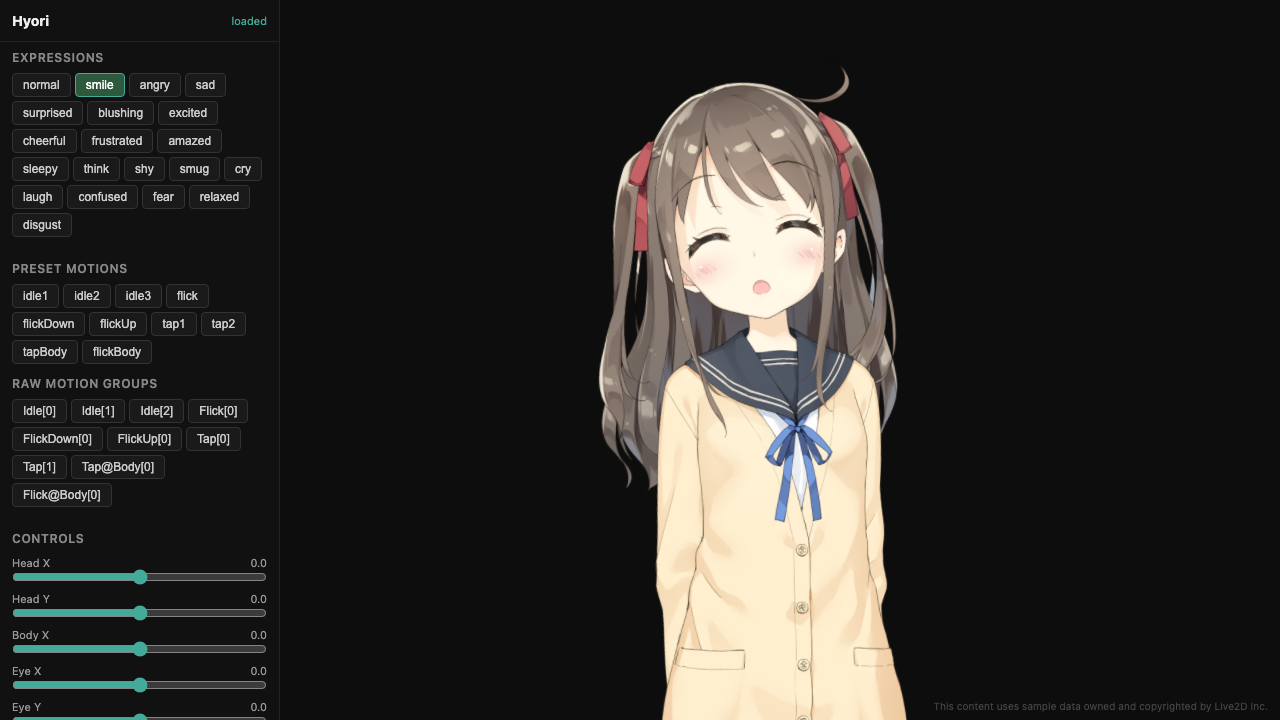
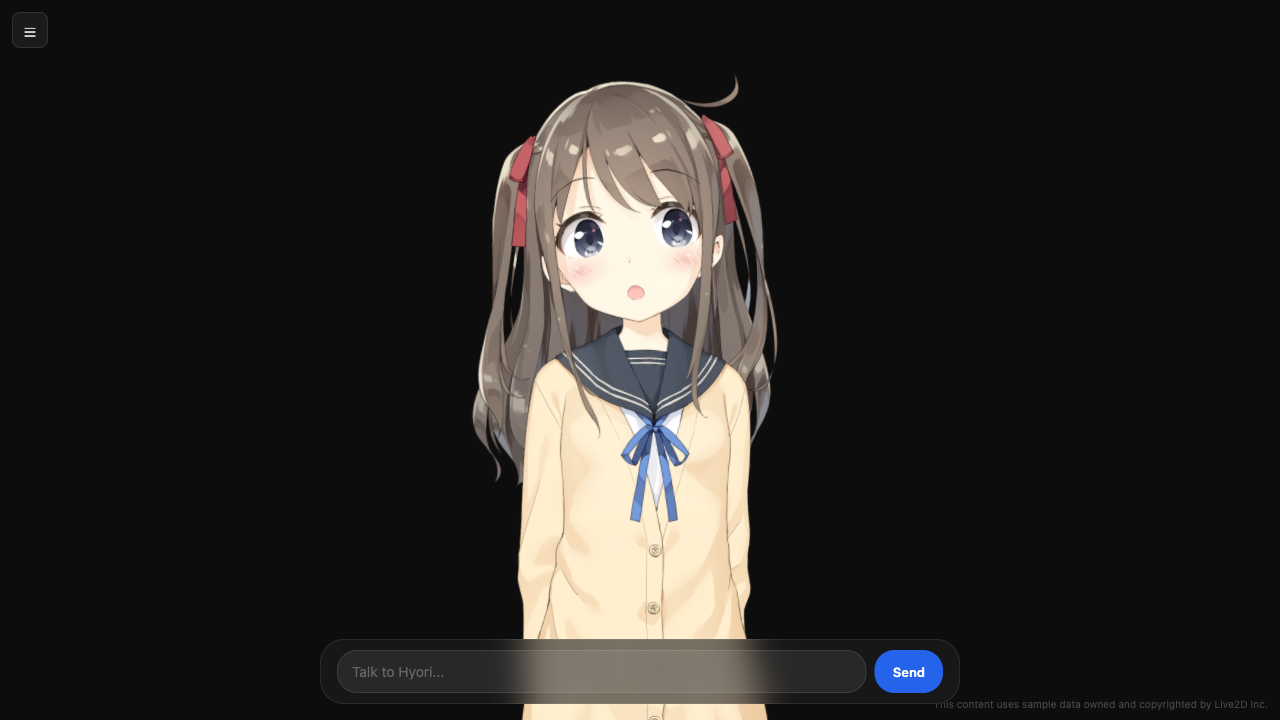
docs: update README with new screenshots and current architecture
- Replace preview screenshot with current UI (chat + floating input)
- Add sidebar screenshot showing expression/motion panels
- Update architecture diagram with z-layer system
- Update feature list with chat UI and responsive layout
- Update project structure and roadmap

diff --git a/README.md b/README.md
@@ -32,6 +32,10 @@
   <img src="assets/preview.png" alt="molroo-hyori preview" width="720" />
 </p>
 
+<p align="center">
+  <img src="assets/preview-sidebar.png" alt="molroo-hyori sidebar" width="720" />
+</p>
+
 ## What is this?
 
 A web-based Live2D avatar controller that demonstrates **exp3 expression blending** on top of motion playback. Instead of switching between canned expression files, each expression is a set of parameter deltas blended additively over the current motion state — enabling smooth, layered facial control.
@@ -43,30 +47,31 @@ A web-based Live2D avatar controller that demonstrates **exp3 expression blendin
 - **Touch interaction** — Tap and flick on the avatar trigger contextual reactions
 - **Idle saccade** — Procedural eye focus animation during idle state
 - **Manual controls** — Head rotation, body rotation, eye gaze, mouth open sliders
+- **Chat UI** — KakaoTalk-style chat with speech bubbles, messages render behind the character
+- **Responsive layout** — Toggle sidebar overlay, adaptive chat width, canvas auto-resize
 - **Swappable characters** — `CharacterPackage` interface for plugging in different models
 
 ## Architecture
 
 ```
-┌─ Browser ──────────────────────────────────────────────────────┐
-│                                                                │
-│  ┌─ Sidebar (280px) ─────────┐  ┌─ Viewer (flex) ──────────┐  │
-│  │ ExpressionPanel (20 btns) │  │                           │  │
-│  │ MotionPanel (presets+raw)  │  │   pixi-live2d-display     │  │
-│  │ ControlPanel (sliders)    │  │   ┌───────────────────┐   │  │
-│  │ ChatPanel (Phase 2)       │  │   │  Live2D Model     │   │  │
-│  └───────────────────────────┘  │   │  + exp3 engine     │   │  │
-│                                  │   │  + idle saccade    │   │  │
-│                                  │   └───────────────────┘   │  │
-│                                  └───────────────────────────┘  │
-│                                                                │
-│  useLive2D hook                                                │
-│  ├── Pixi Application lifecycle (create / resize / destroy)    │
-│  ├── EyeBall curve patch (saccade takes over idle eye curves)  │
-│  ├── motionManager.update hook → saccade injection             │
-│  ├── coreModel.update hook → exp3 expression fade injection    │
-│  └── Pointer event detection → tap / flick → motion trigger    │
-└────────────────────────────────────────────────────────────────┘
+┌─ Browser ──────────────────────────────────────────────────────────┐
+│                                                                    │
+│  ┌─ Sidebar (overlay, toggle) ─┐  ┌─ Main Area (flex) ─────────┐  │
+│  │ ExpressionPanel (20 btns)   │  │                             │  │
+│  │ MotionPanel (presets+raw)   │  │  z=2  ChatMessages (behind) │  │
+│  │ ControlPanel (sliders)      │  │  z=5  Live2D Canvas         │  │
+│  └─────────────────────────────┘  │  z=10 InputBar (floating)   │  │
+│                                    │  z=20 SpeechBubble          │  │
+│                                    └─────────────────────────────┘  │
+│                                                                    │
+│  useLive2D hook                                                    │
+│  ├── Pixi Application lifecycle (create / resize / destroy)        │
+│  ├── ResizeObserver on container → responsive canvas               │
+│  ├── EyeBall curve patch (saccade takes over idle eye curves)      │
+│  ├── motionManager.update hook → saccade injection                 │
+│  ├── coreModel.update hook → exp3 expression fade injection        │
+│  └── Pointer event detection → tap / flick → motion trigger        │
+└────────────────────────────────────────────────────────────────────┘
 ```
 
 ### exp3 Blending
@@ -142,7 +147,8 @@ src/
     ├── ExpressionPanel.tsx      # Expression toggle buttons
     ├── MotionPanel.tsx          # Preset + raw motion buttons
     ├── ControlPanel.tsx         # Parameter sliders
-    └── ChatPanel.tsx            # Chat placeholder (Phase 2)
+    ├── ChatPanel.tsx            # Chat UI (messages + speech bubble)
+    └── ChatPanel.css            # Chat styles + z-layer layout
 ```
 
 ## CharacterPackage
@@ -167,9 +173,11 @@ const myCharacter: CharacterPackage = {
 
 ## Roadmap
 
-- [ ] **Phase 2**: Chat integration (molroo-api + Anthropic SDK)
-- [ ] **Phase 2**: Expression driven by emotion engine (VAD → exp3 mapping)
+- [x] Chat UI with speech bubbles and z-layered rendering
+- [x] Responsive layout with toggleable sidebar
 - [x] GitHub Pages deployment with auto-build
+- [ ] Chat integration (molroo-api + Anthropic SDK)
+- [ ] Expression driven by emotion engine (VAD → exp3 mapping)
 
 ## Third-Party Notices
 
